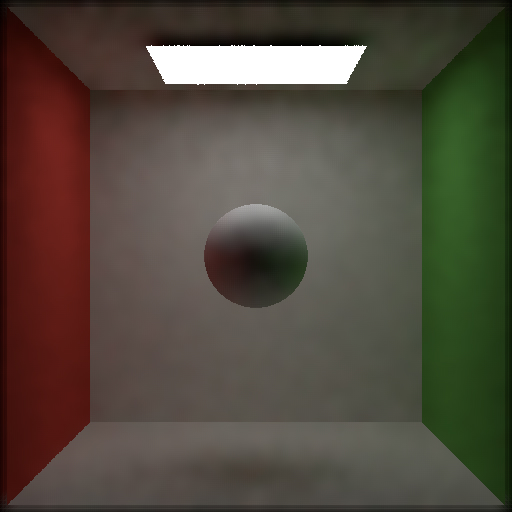
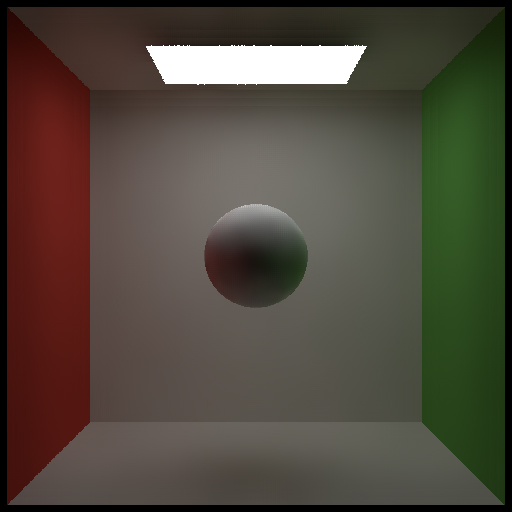
update

Changed region(s): [[0.0, 0.0, 1.0, 1.0], [0.3125, 0.0625, 0.5938, 0.0938], [0.6562, 0.0625, 0.6875, 0.0938]]

diff --git a/assignments/hw5/README.md b/assignments/hw5/README.md
@@ -257,11 +257,11 @@ for (int y = 0; y < height; y++) {
 <img src="images/atrous wavelet.png">
 </div>
 
-在本次作业中使用了3个级联的(5, 5)大小的卷积核来近似原始的(32, 32)卷积核。相应的代码和滤波结果如下：
+在本次作业中使用了4个级联的(5, 5)大小的卷积核来近似原始的(32, 32)卷积核。相应的代码和滤波结果如下：
 
 ```cpp
 // À-Trous Wavelet
-int levels = 3;
+int levels = 4;
 int h = 1;
 kernelRadius = 2;
 
@@ -346,6 +346,16 @@ for (size_t l = 0; l < levels; l++)
 <div align=center>
 <img src="images/pink_room.jpg">
 <img src="images/pink_room_atrous_output.jpg">
+</div>
+
+<div align=center>
+<img src="images/box-input.gif" width=400>
+<img src="images/box-atrous-result.gif" width=400>
+</div>
+
+<div align=center>
+<img src="images/pinkroom-input.gif">
+<img src="images/pinkroom-atrous-result.gif">
 </div>
 
 不难发现使用À-Trous算法可以达到类似于直接使用大卷积核的效果。由于每个小卷积核进行滤波的计算代价都远小于大卷积核，因此À-Trous算法可以极大地加速单帧图像的滤波降噪过程。
